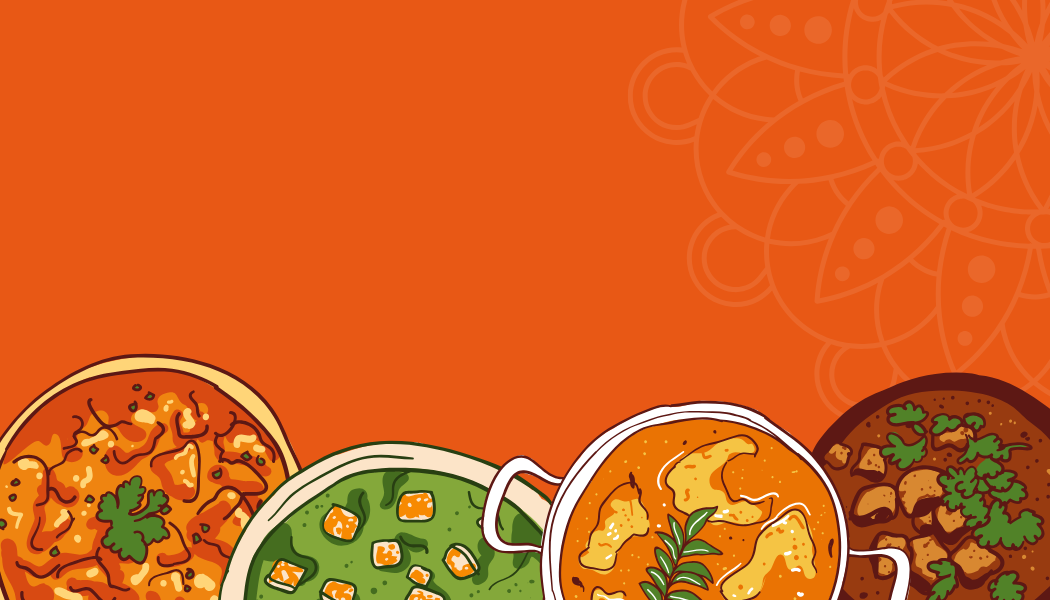
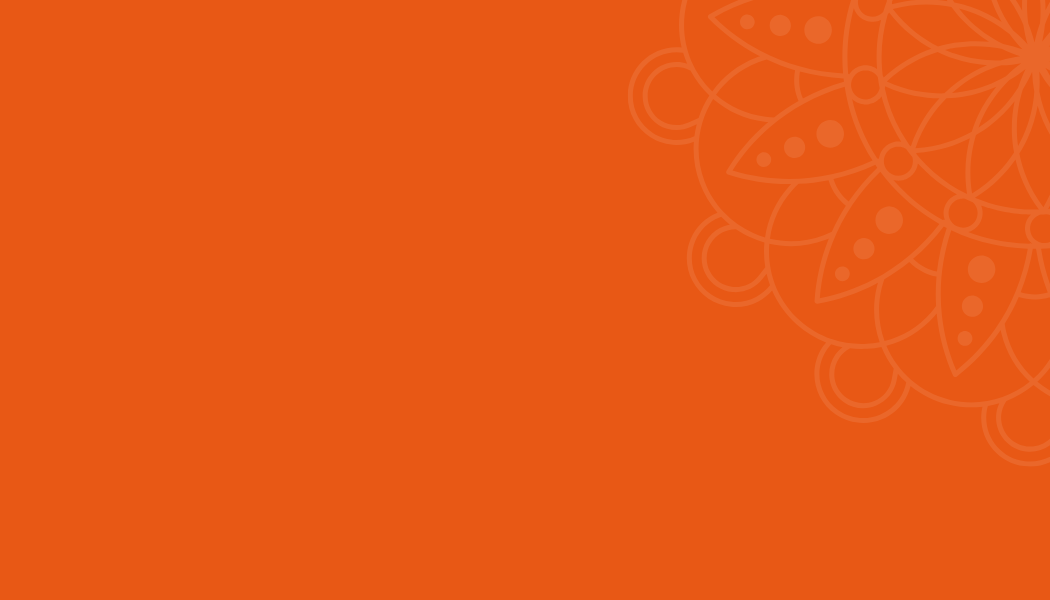
Add files via upload

Changed region(s): [[0.0, 0.57, 1.0, 1.0]]

diff --git a/styles.css b/styles.css
@@ -92,20 +92,26 @@ body {
 
 /* Hero Section */
 .hero-section {
-    padding: 4rem 3rem;
+    padding: 2.5rem 2rem 2rem 3rem;
     text-align: center;
     /* background: linear-gradient(135deg, #cdc4ae 0%, #cbbc18 100%); */
-    background: linear-gradient(135deg, #d26919 0%, #e08e22 100%);
+    background: url('2.png') center center/cover no-repeat, linear-gradient(135deg, #d26919 0%, #e08e22 100%);
+    min-height: 320px;
+    max-height: 380px;
+    height: 38vw;
     position: relative;
     overflow: hidden;
+    align-items: center;
 }
 
 .hero-content {
-    background: rgba(0,0,0,0.5); /* Optional: dark overlay for readability */
+    background: none;
     color: #fff;
     padding: 2rem;
-    border-radius: 10px;
+    border-radius: 0;
     text-align: center;
+    border: none;
+    box-shadow: none;
 }
 
 .hero-content h1 {
@@ -608,7 +614,7 @@ body {
 /* Contact Section */
 .contact-section {
     padding: 4rem 3rem;
-    background: white;
+    background: linear-gradient(135deg, #fff5f0 0%, #ffe8d6 100%);
 }
 
 .contact-content {
@@ -635,13 +641,13 @@ body {
     align-items: center;
     gap: 1rem;
     padding: 1.5rem;
-    background: #f8f9fa;
+    background: #f3e0e8;
     border-radius: 15px;
     transition: all 0.3s ease;
 }
 
 .contact-info > div:hover {
-    background: #fff5f0;
+    background: #aacce7;
     transform: translateY(-5px);
 }
 
@@ -914,64 +920,54 @@ html {
     animation: cartShake 0.5s ease;
 } 
 @media (max-width: 600px) {
-  .hero-section {
-    min-height: 220px; /* Reduce height for mobile */
-    background-position: center top;
-    background-size: cover;
-  }
-  .hero-content {
-    padding: 1rem;
-    font-size: 0.95rem;
-  }
-
-}
-/* Mobile Responsive for Hero + Search Bar */
-@media (max-width: 600px) {
-  .hero-section {
-    min-height: 280px; /* keep height reasonable */
-    background-position: center top;
-    background-size: cover;
-    padding: 1.5rem 1rem;
-  }
-
-  .hero-content {
-    padding: 1rem;
-    border-radius: 8px;
-      background: transparent; /* blend with hero background */
-    box-shadow: none;        /* remove shadow/border look */
-  }
-
-  .hero-content h1 {
-    font-size: 1.6rem;  /* Smaller headline */
-    line-height: 1.3;
-    margin-bottom: 1rem;
-  }
-
-  /* Search Bar for Mobile */
-  .search-container {
-    width: 100%;
-    max-width: 100%;
-  }
-
-  .search-bar {
-    padding: 0.3rem;
-    border-radius: 40px;
-  }
-
-  .search-icon {
-    font-size: 1rem;
-    margin-left: 0.6rem;
-  }
-
-  .search-input {
-    font-size: 0.9rem;
-    padding: 0.6rem 0.8rem;
-  }
-
-  .search-btn {
-    padding: 0.6rem 1rem;
-    font-size: 1rem;
-  }
+        .hero-section {
+            min-height: 280px; /* Larger for mobile */
+            height: 90vw;
+            max-height: 50px;
+            background-position: center center;
+            background-size: cover;
+            background-repeat: no-repeat;
+            padding: 1.2rem 0.5rem 0.5rem 0.5rem;
+            display: flex;
+            align-items: flex-start;
+            justify-content: center;
+        }
+    .hero-content {
+        padding: 0.3rem 0.2rem 0.2rem 0.2rem;
+        font-size: 0.95rem;
+        border-radius: 8px;
+        background: transparent;
+        box-shadow: none;
+        width: 100%;
+    }
+    .hero-content h1 {
+        font-size: 2.3rem;
+        line-height: 1.5;
+        margin-top: 0.4rem;
+        margin-bottom: 0.9rem;
+        text-shadow: 1px 1px 4px rgba(0,0,0,0.18);
+    }
+    .search-container {
+        width: 80%;
+        max-width: 100%;
+        margin-top: 0.2rem;
+    }
+    .search-bar {
+        padding: 0.2rem;
+        border-radius: 40px;
+    }
+    .search-icon {
+        font-size: 1rem;
+        margin-left: 0.5rem;
+    }
+    .search-input {
+        font-size: 0.9rem;
+        padding: 0.5rem 0.7rem;
+    }
+    .search-btn {
+        padding: 0.5rem 0.8rem;
+        font-size: 1rem;
+    }
 }
 /* Sticky Search Bar for Mobile */
 @media (max-width: 600px) {

diff --git a/index.html b/index.html
@@ -14,6 +14,7 @@
         <div class="header-content">
             <div class="logo">
                 <h1>Ramu Kaka Restaurant</h1>
+                
             </div>
             <nav class="nav-menu">
                 <a href="#home" class="nav-link active">
@@ -45,6 +46,8 @@
     <section id="home" class="hero-section">
             <div class="hero-content">
                 <h1> Best restaurant in Lucknow</h1>
+               
+            
                 
                 
                 <div class="search-container">
@@ -61,7 +64,7 @@
 
         <section class="menu-section">
           <div>
-              <h2 class="section-title" style="font-size: 2rem; margin-bottom: 30px; text-align: center;">Popular Dishes</h2>
+              <h2 class="section-title" style="font-size: 2rem; margin-top: -4rem; margin-bottom: 40px; text-align: center;">Popular Dishes</h2>
           </div>
             <div class="menu-grid">
                 <div class="menu-card" data-food="Pizza">

diff --git a/foods.html b/foods.html
@@ -40,7 +40,7 @@
         <!-- Foods Hero Section -->
         <section class="foods-hero-section">
             <div class="foods-hero-content">
-                <h1 class="foods-hero-title" style=" color: rgb(80, 9, 94);">Our Complete Menu</h1>
+                <h1 class="foods-hero-title" style=" color: rgb(50, 121, 22);">Our Complete Menu</h1>
                 <p class="foods-hero-description">Explore our extensive collection of delicious dishes. From traditional favorites to modern fusion, we have something for everyone.</p>
                 
                 <!-- Search Bar -->
